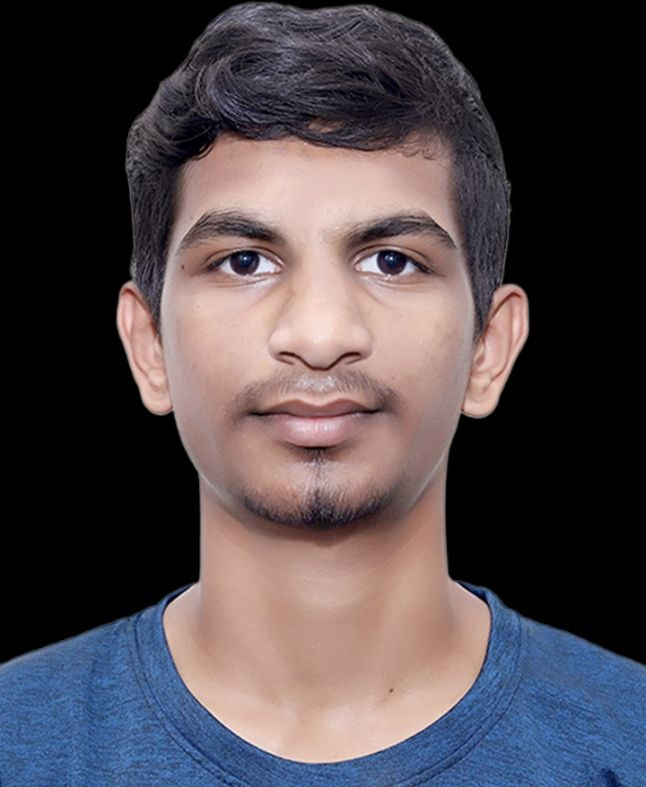
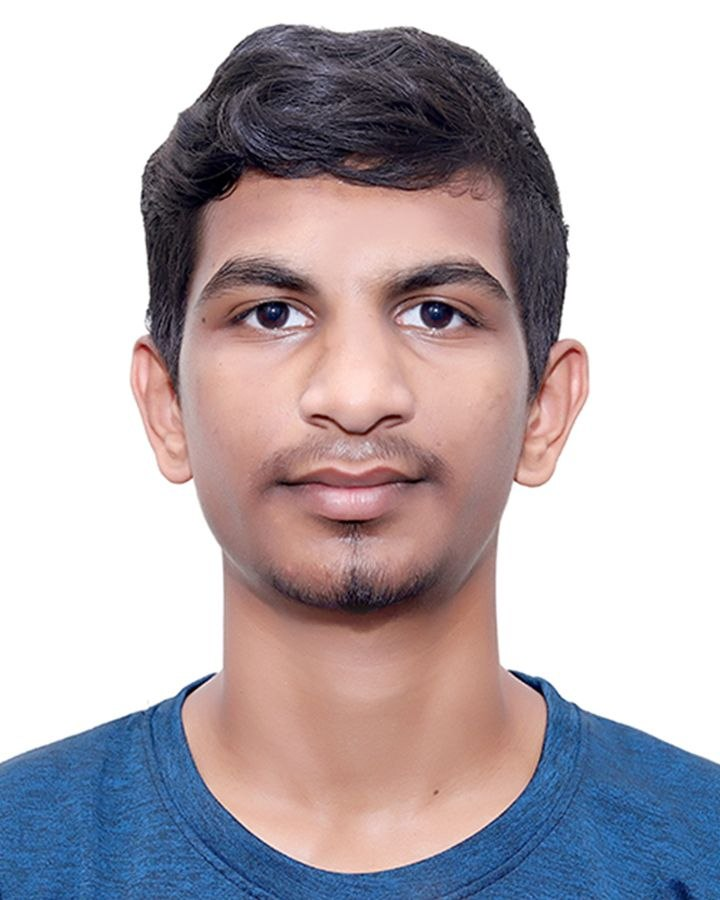
Add files via upload

diff --git a/style.css b/style.css
@@ -83,3 +83,29 @@ footer {
   color: #fff;
   border-top: 3px solid #8e0000;
 }
+
+a:hover, button:hover, .card:hover, .project:hover {
+    transform: translateY(-3px);
+    opacity: 0.9;
+}
+
+html {
+    scroll-behavior: smooth;
+}
+
+.profile-img {
+    transition: 0.3s;
+}
+
+.profile-img:hover {
+    transform: scale(1.03);
+}
+
+#skills {
+    border: 1px solid #ff6b6b;
+    border-radius: 10px;
+    padding: 30px;
+    margin: 40px auto;
+    width: 90%;
+    background-color: #fdfdfd;
+}
